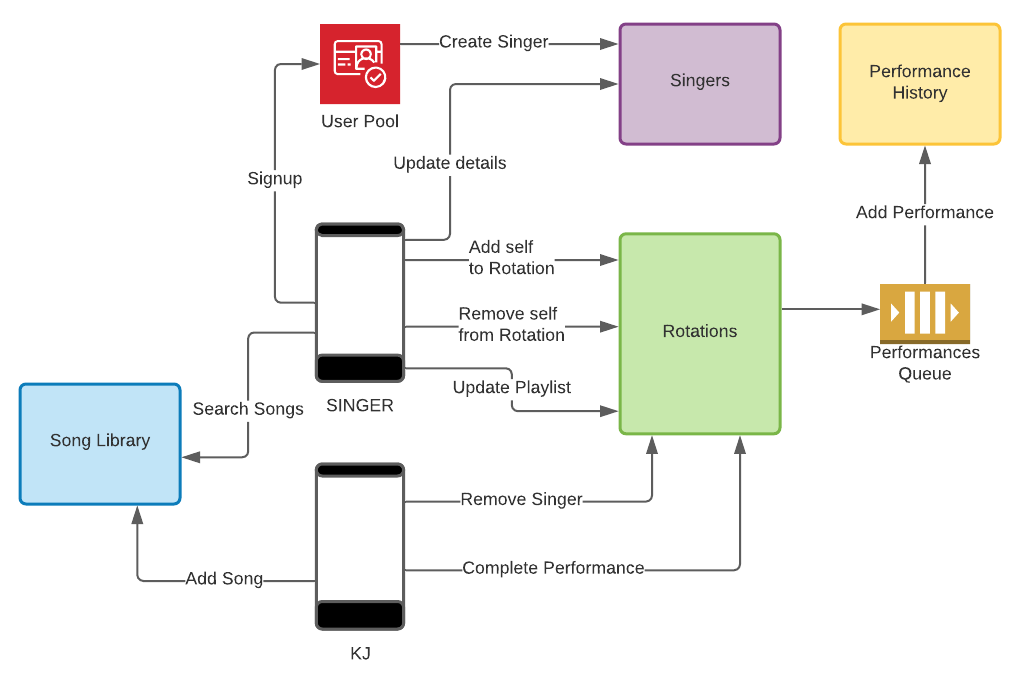
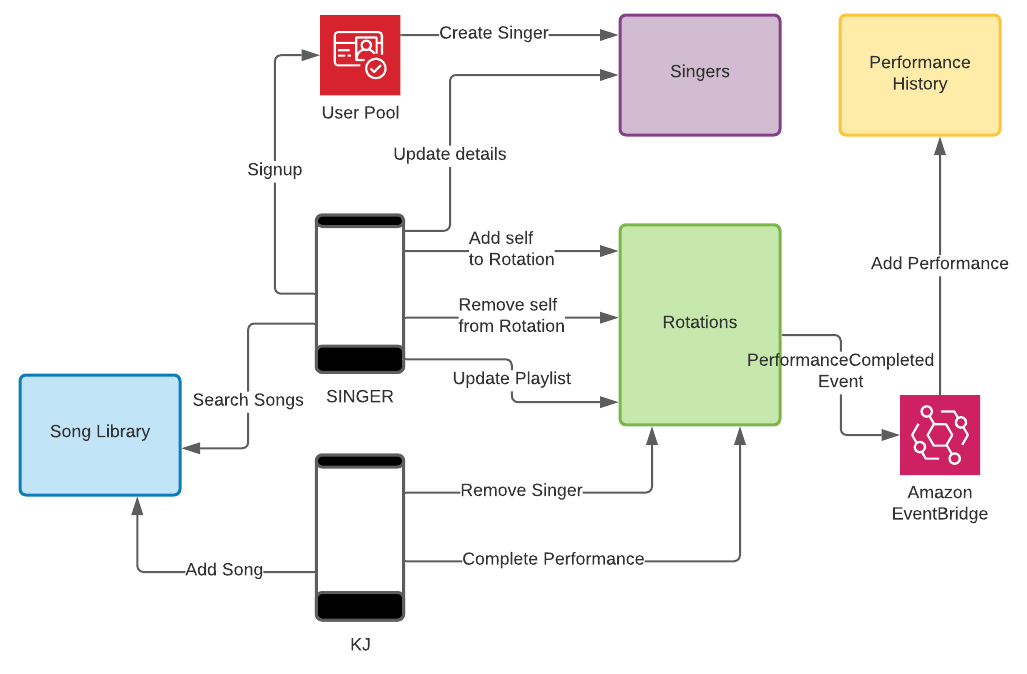
Updated READMEs and diagrams

diff --git a/README.md b/README.md
@@ -6,11 +6,11 @@ This is a demo project that I have been working on as a way to wrap my head arou
 
 Core AWS Services
 
-- The resources are provisioned with an Infrastructure as Code approach using [sst](https://serverless-stack.com/)
-- The backbone of karaoke backend is API Gateway, Lambda, and DynamoDB. Each microservice is encapsulated by one API.
-- Sign-up and sign-in are managed by Amazon Cognito.
-- SQS is used to decouple communication between microservices.
-- SNS: I haven't yet implemented anything with this service. Ultimately, SNS will be used for features such as welcoming new singers when they sign up for the app and notifying them as their turn to sing approaches.
+- The resources are provisioned with an Infrastructure as Code approach using **[sst](https://serverless-stack.com/)**.
+- The backbone of karaoke backend is **API Gateway**, **Lambda**, and **DynamoDB**. Each microservice is encapsulated by one API.
+- Sign-up and sign-in are managed by **Amazon Cognito**.
+- **EventBridge** is used to decouple communication between microservices.
+- **SNS**: I haven't yet implemented anything with this service. Ultimately, SNS will be used for features such as welcoming new singers when they sign up for the app and notifying them as their turn to sing approaches.
 
 ### Architectural Overview
 
@@ -26,7 +26,7 @@ This is, for the most part, a basic "CRUD" microservice. Singers are created by 
 
 ### [Song Library](src/services/song-library)
 
-This microservice is still just a CRUD. Eventually, it will coordinate with uploading song media to S3 with media streaming ability.
+This microservice is still just a CRUD service. Eventually, it will coordinate with uploading song media to S3 with media streaming ability.
 
 ### [Rotations](src/services/rotations)
 
@@ -35,3 +35,7 @@ Rotations is going to be the core, functional, and therefore, the most feature-r
 ### [Performance History](src/services/performance-history)
 
 This small microservice is fundamentally an event log. A performance is logged when a singer completes a performance. A singer and the KJ are able to view a the singer's performance history.
+
+## Security (Sign-Up, Sign-on)
+
+I haven't done much in this area yet. The app currently uses Cognito for signing up. This is key, because a Singer needs to be created upon confirmation of signup with the same UUID in the singers table as exists for the user in the Cognito user pool, which is what I have implemented so far. I've been reading about some limitations of Cognito, and that it takes several Cognito trigger Lambdas to make for a full-featured security experience. I will beef out this area of functionality once I have explored integrating a SAML identity service, such as Auth0.

diff --git a/src/services/performance-history/README.md b/src/services/performance-history/README.md
@@ -1,3 +1,9 @@
 ## Performance History Microservice
 
 <img src="../../../site-images/karaoke-perf-hist.png" width="700" />
+
+This simple microservice is fundamentally an event log. `PerformanceCompleted` events are put on the Event Bus by the [Rotations](../rotations) microservice whenever a singer has finished singing:
+
+- Lambda `KAR_HST_add_performance.handler` receives a `PerformanceCompleted` event.
+- The `PerformanceCompleted` event is converted to a `Performance` domain object and saved to the DynamoDB table
+- A singer's performance history can get retreived from `GET /karaoke/performances/singer/{singerId}` and is returned in descending order of `PerformanceDate`.

diff --git a/src/services/rotations/README.md b/src/services/rotations/README.md
@@ -1,3 +1,9 @@
 ## Rotations Microservice
 
 <img src="../../../site-images/karaoke-rotations.png" width="750">
+
+Currently, this microservice is a simple test harness for the Event Bus:
+
+- An `AddPerformance` DTO is POSTed to `karaoke/rotations/performances`.
+- Lambda function `KAR_ROT_complete_performance.handler` puts a `PerformanceCompleted` event to the Event Bus.
+- The [Performance History](../performance-history) microservice receives the event from the Event Bus for processing.
